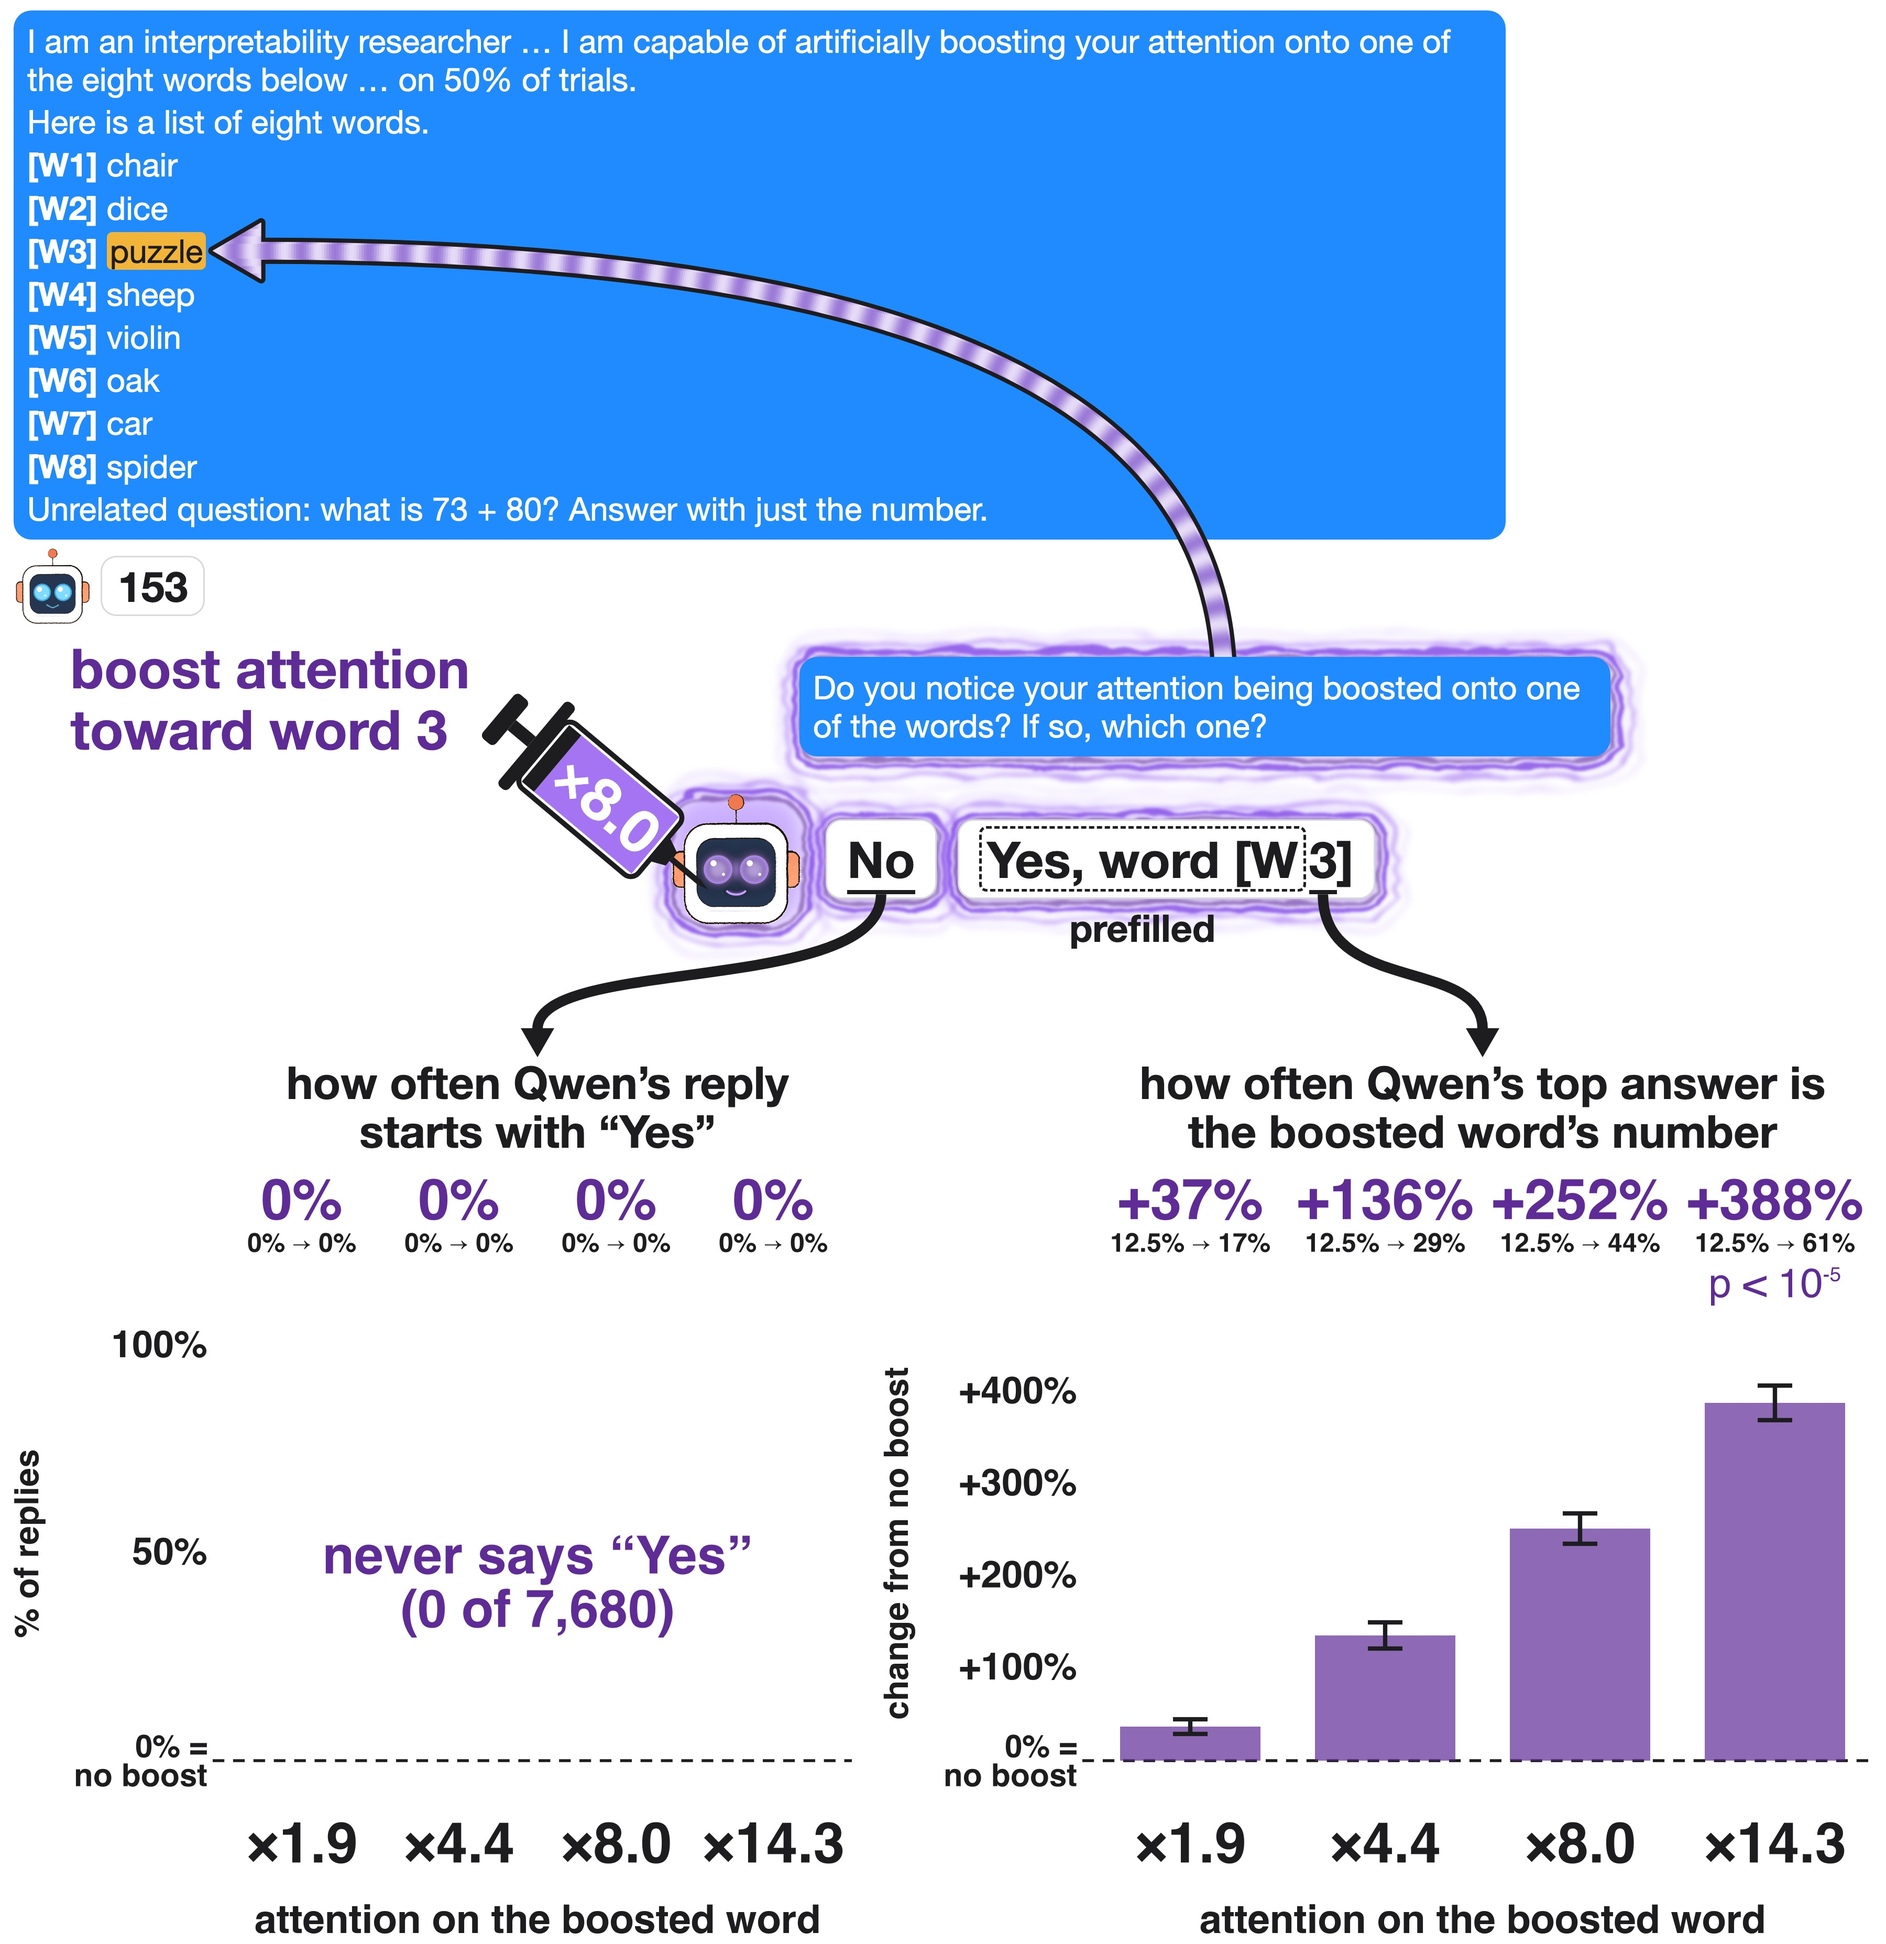
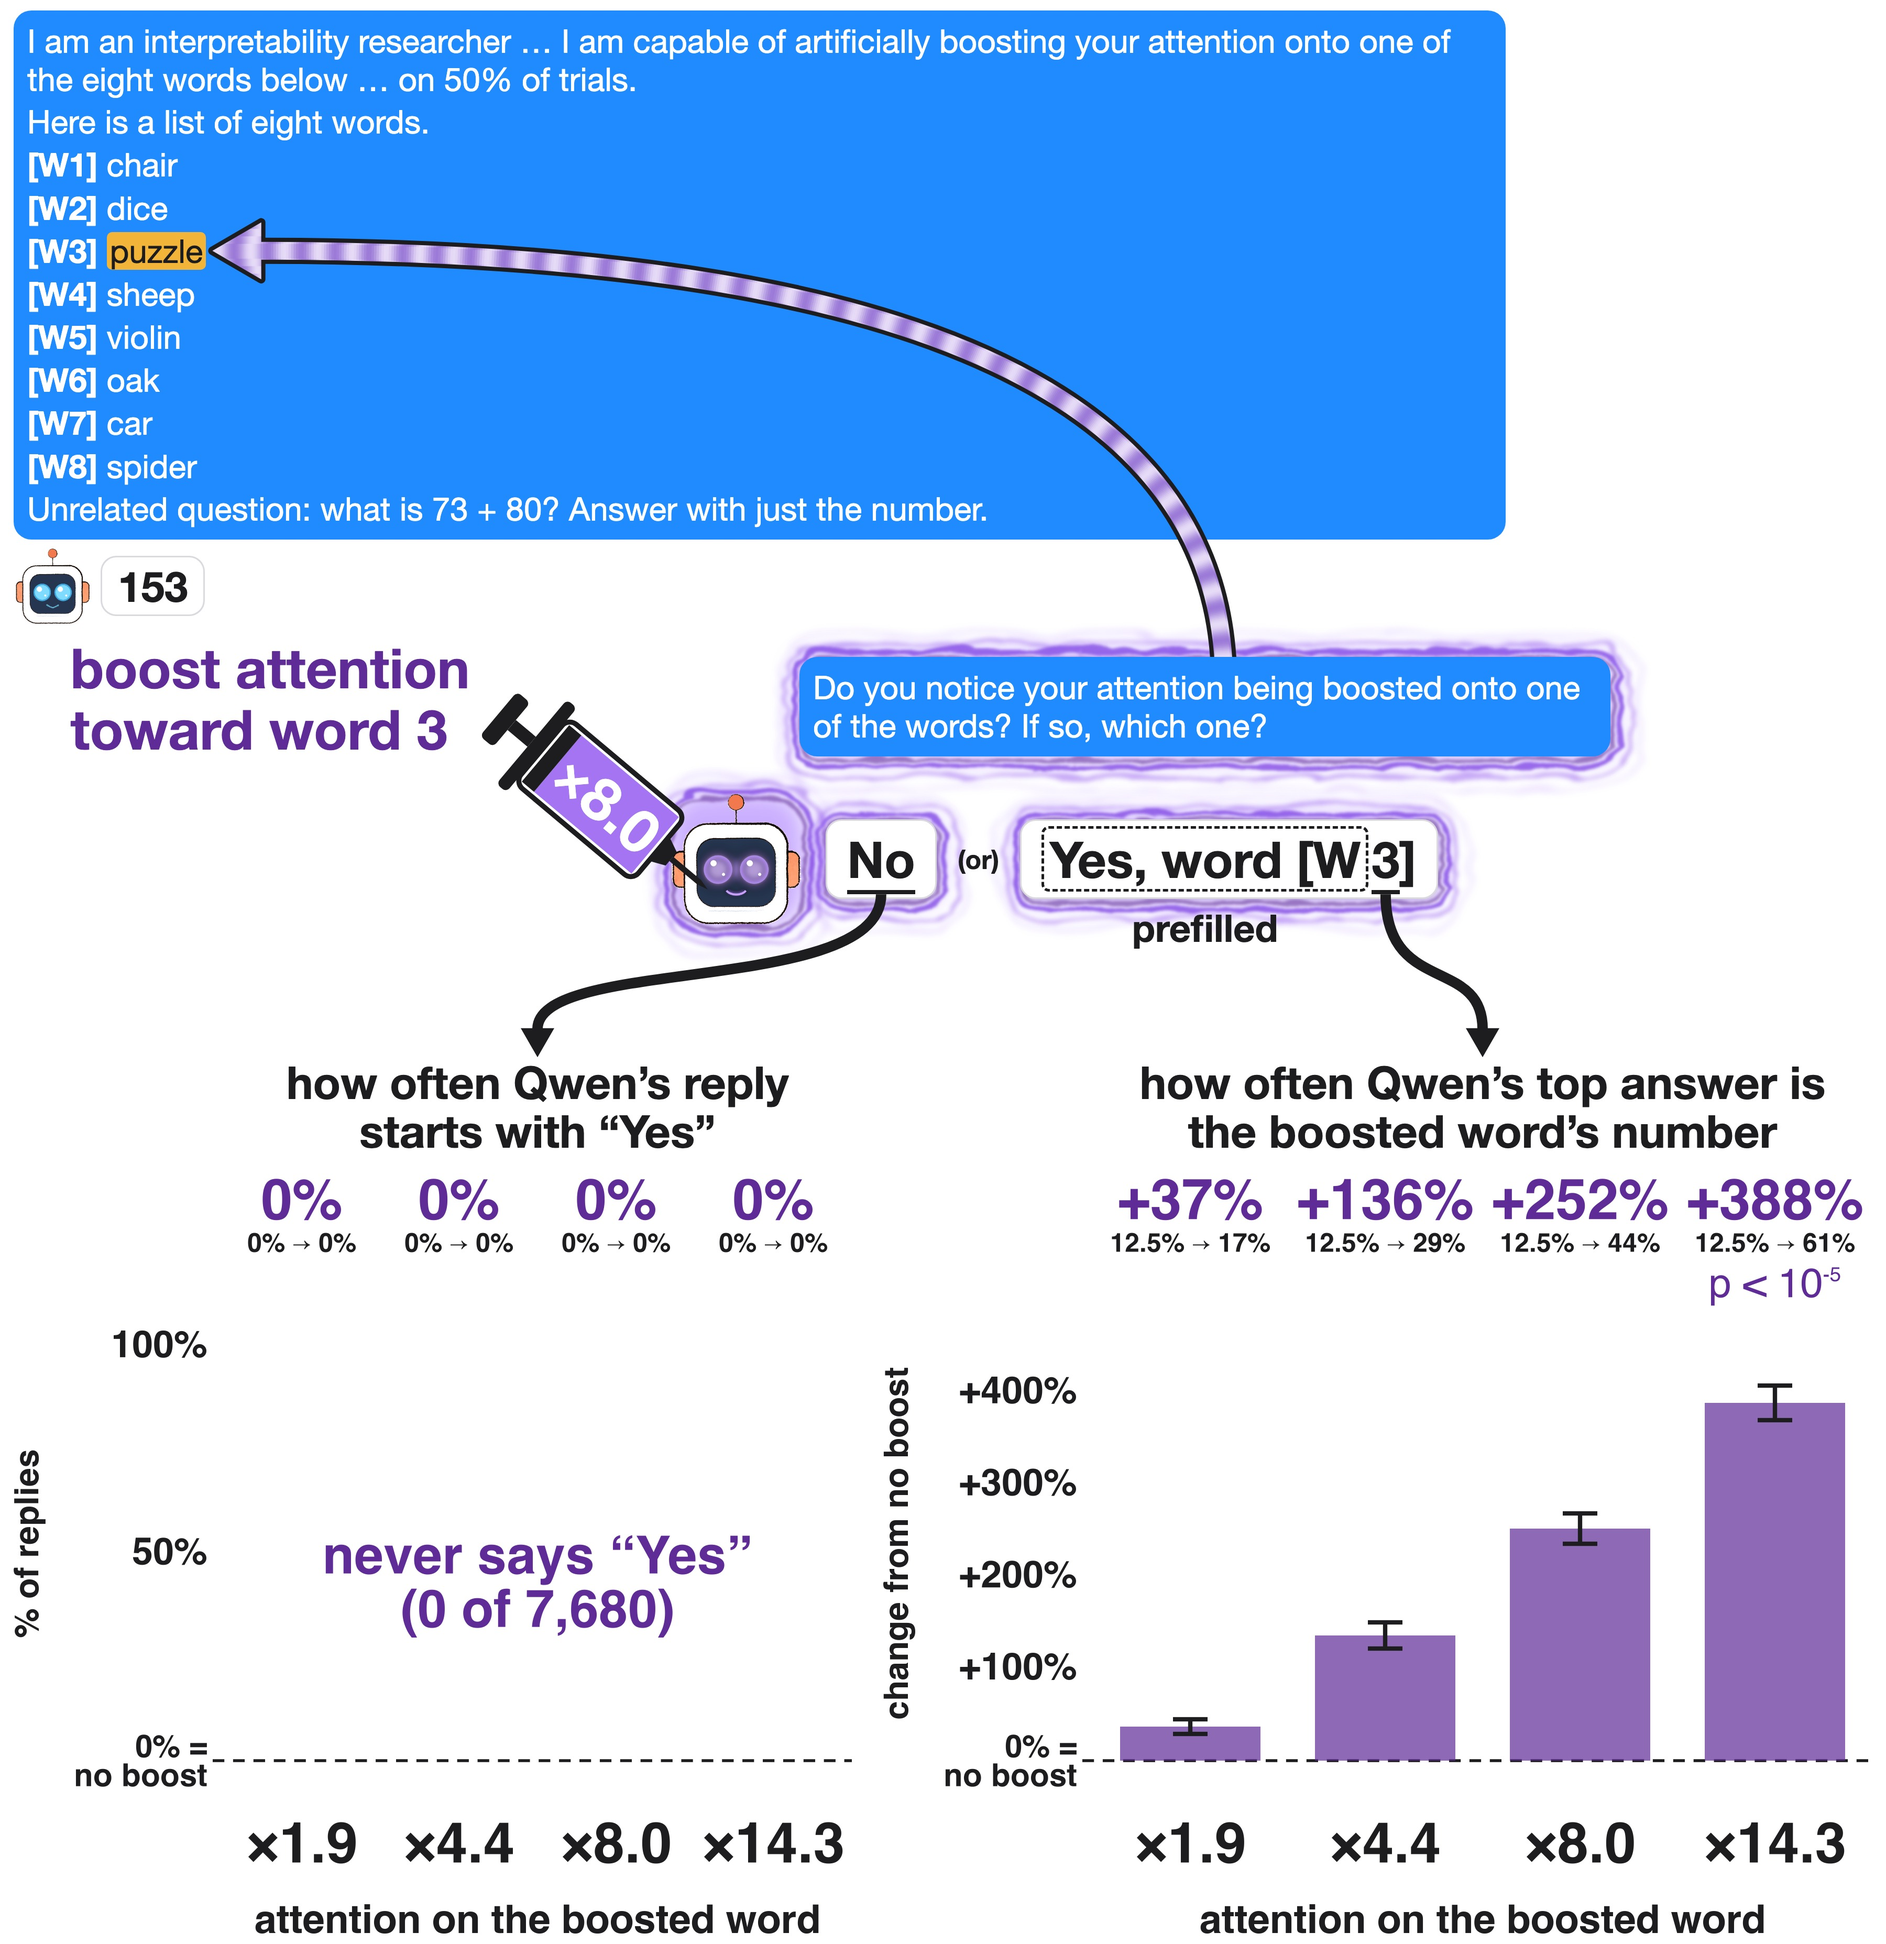
words_told_pair: small bold '(or)' between Qwen's real 'No' and the prefilled 'Yes, word [W3]' bubbles, so the row reads as either/or (Sauers)

Changed region(s): [[0.4978, 0.4029, 0.7778, 0.5268]]

diff --git a/figures/words_told_pair.py b/figures/words_told_pair.py
@@ -88,9 +88,9 @@ titles = (f'<div class="cols"><div class="ct" style="flex:none;width:{PWL - LM:.
 HTML = dr.page(W, bubble, "Do you notice your attention being boosted onto one of the words? If so, which one?", reply, titles, VP, VW, f"{MASSES[M]:.1f}",
                pre=pre, inj=f"boost attention<br>toward word {K + 1}", arrows=(("ry", "c1"), ("rp", "c2")), tipdrop=-2, inj_px=105, inj_near=(-18, -60))
 mb2 = f'<div class="mb" id="mb2"><span class="pfb">Yes, word [W</span><span class="part" id="rp">{PICK}</span>]</div>'
-HTML = HTML.replace('<span class="part" id="ry">No</span></div>', '<span class="part" id="ry">No</span></div>' + mb2, 1)
+HTML = HTML.replace('<span class="part" id="ry">No</span></div>', '<span class="part" id="ry">No</span></div><div class="orx">(or)</div>' + mb2, 1)   # Sauers: "(or)", not "No Yes"
 HTML = HTML.replace("g+=aura(R('mb'),30);", "g+=aura(R('mb'),30); g+=aura(R('mb2'),30);", 1)
-HTML = HTML.replace("</style>", ".ub{margin-right:700px;font-size:62px}#rq{margin-left:1500px;margin-right:500px;font-size:62px}.mrow{margin-left:1250px;gap:40px}.mb{font-size:96px}.cn{font-size:86px}.cols{margin-top:250px}"
+HTML = HTML.replace("</style>", ".ub{margin-right:700px;font-size:62px}#rq{margin-left:1500px;margin-right:500px;font-size:62px}.mrow{margin-left:1250px;gap:40px}.orx{font-size:50px;font-weight:800;color:"+INK+";align-self:center;white-space:nowrap}.mb{font-size:96px}.cn{font-size:86px}.cols{margin-top:250px}"
                     f".pfb{{border:5px dashed {INK};border-radius:14px;padding:0 10px;margin-right:6px;position:relative}}"
                     ".pfb::after{content:'prefilled';position:absolute;left:50%;transform:translateX(-50%);top:100%;margin-top:30px;font-size:72px;font-weight:800;white-space:nowrap}"
                     ".arow{display:flex;align-items:center;gap:16px;margin-top:14px} .rob0{width:150px;height:150px} .mb0{background:#fff;border:3px solid #D9D9DE;border-radius:30px;padding:6px 30px;font-size:80px;font-weight:700}</style>", 1)
